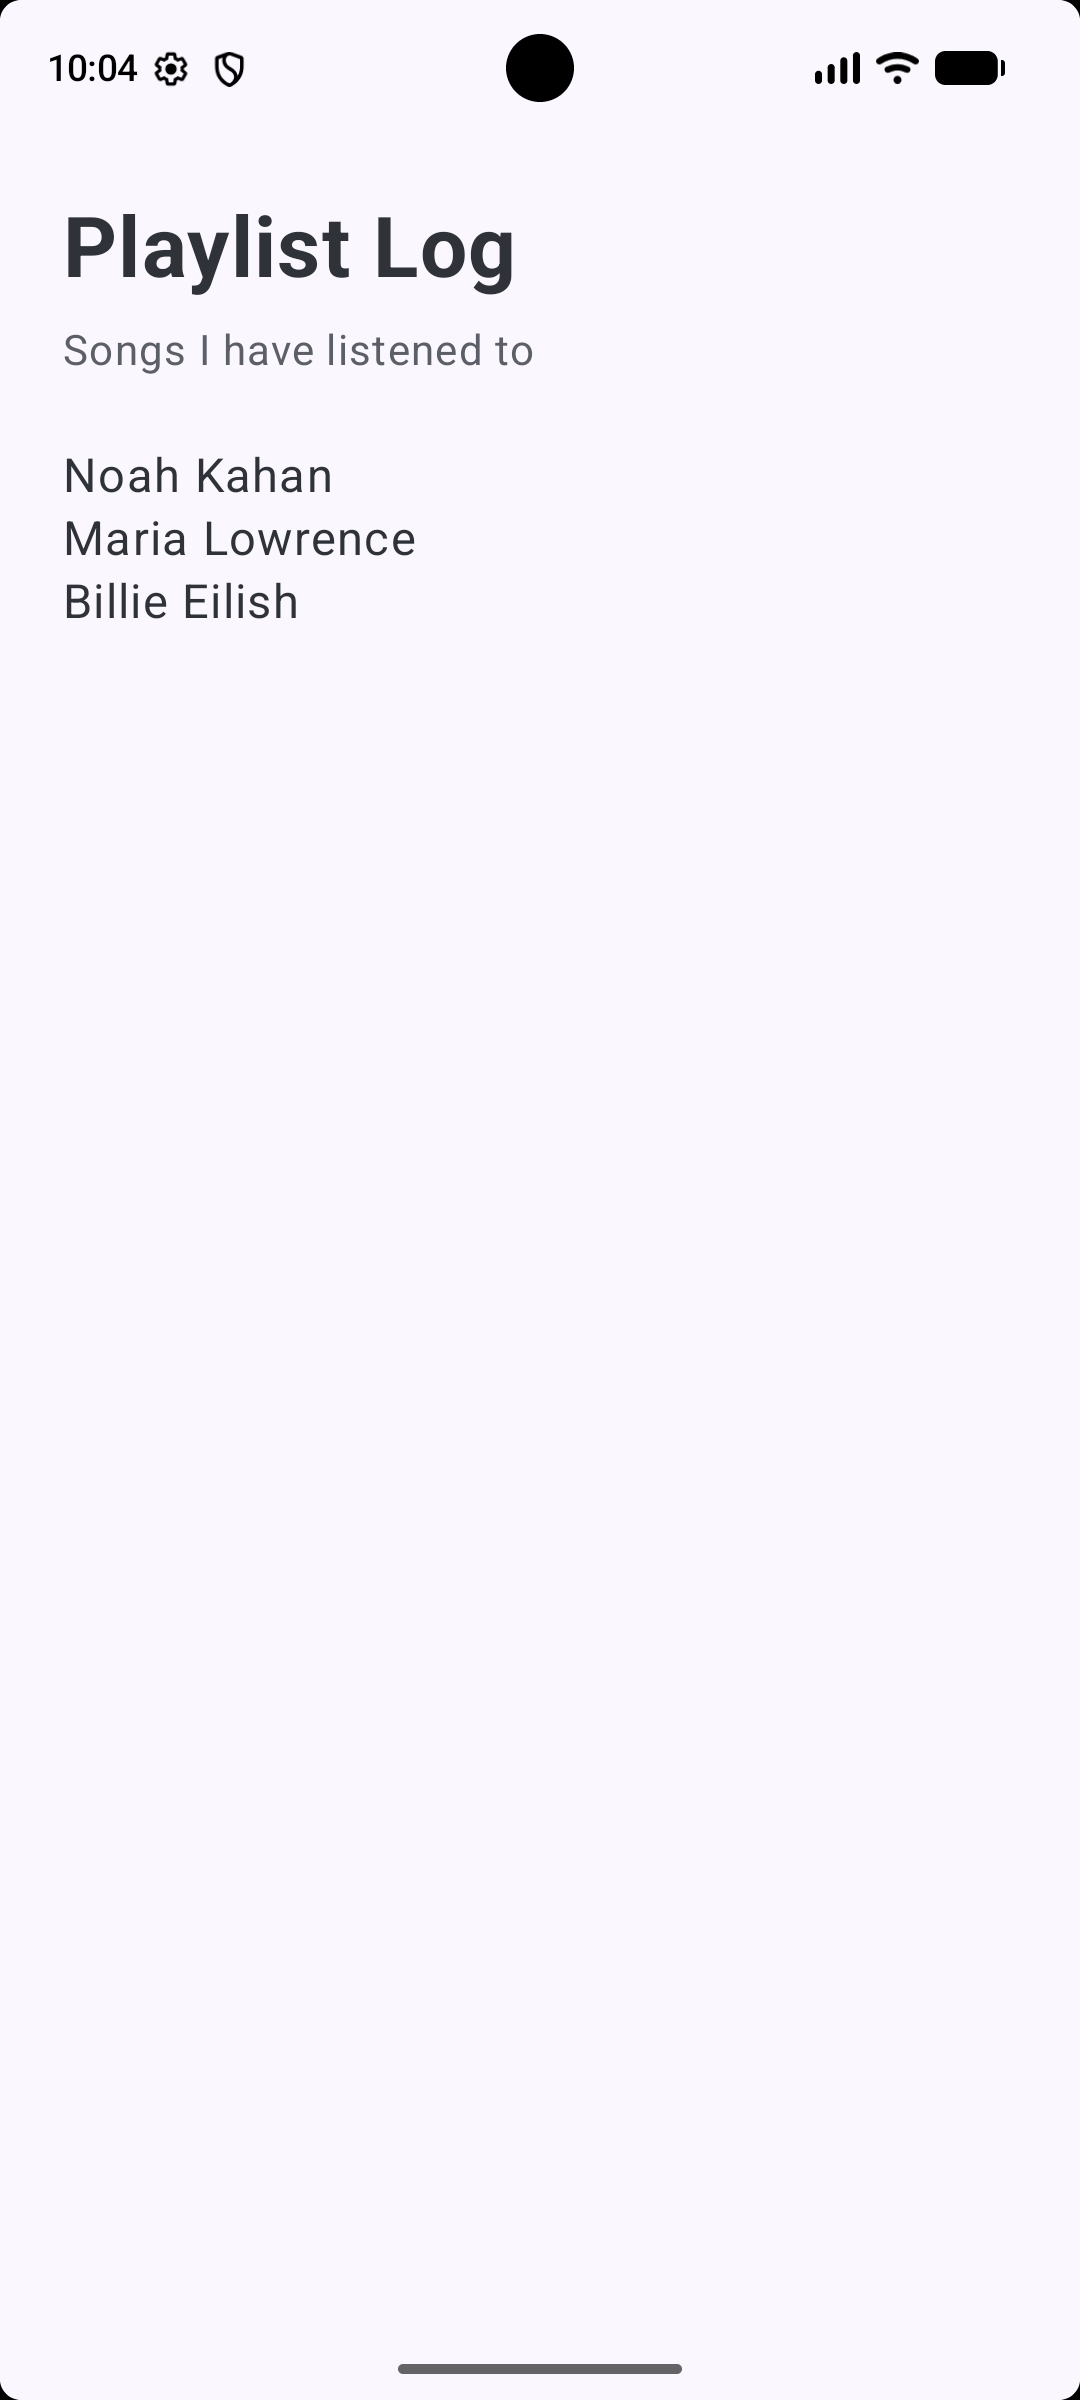
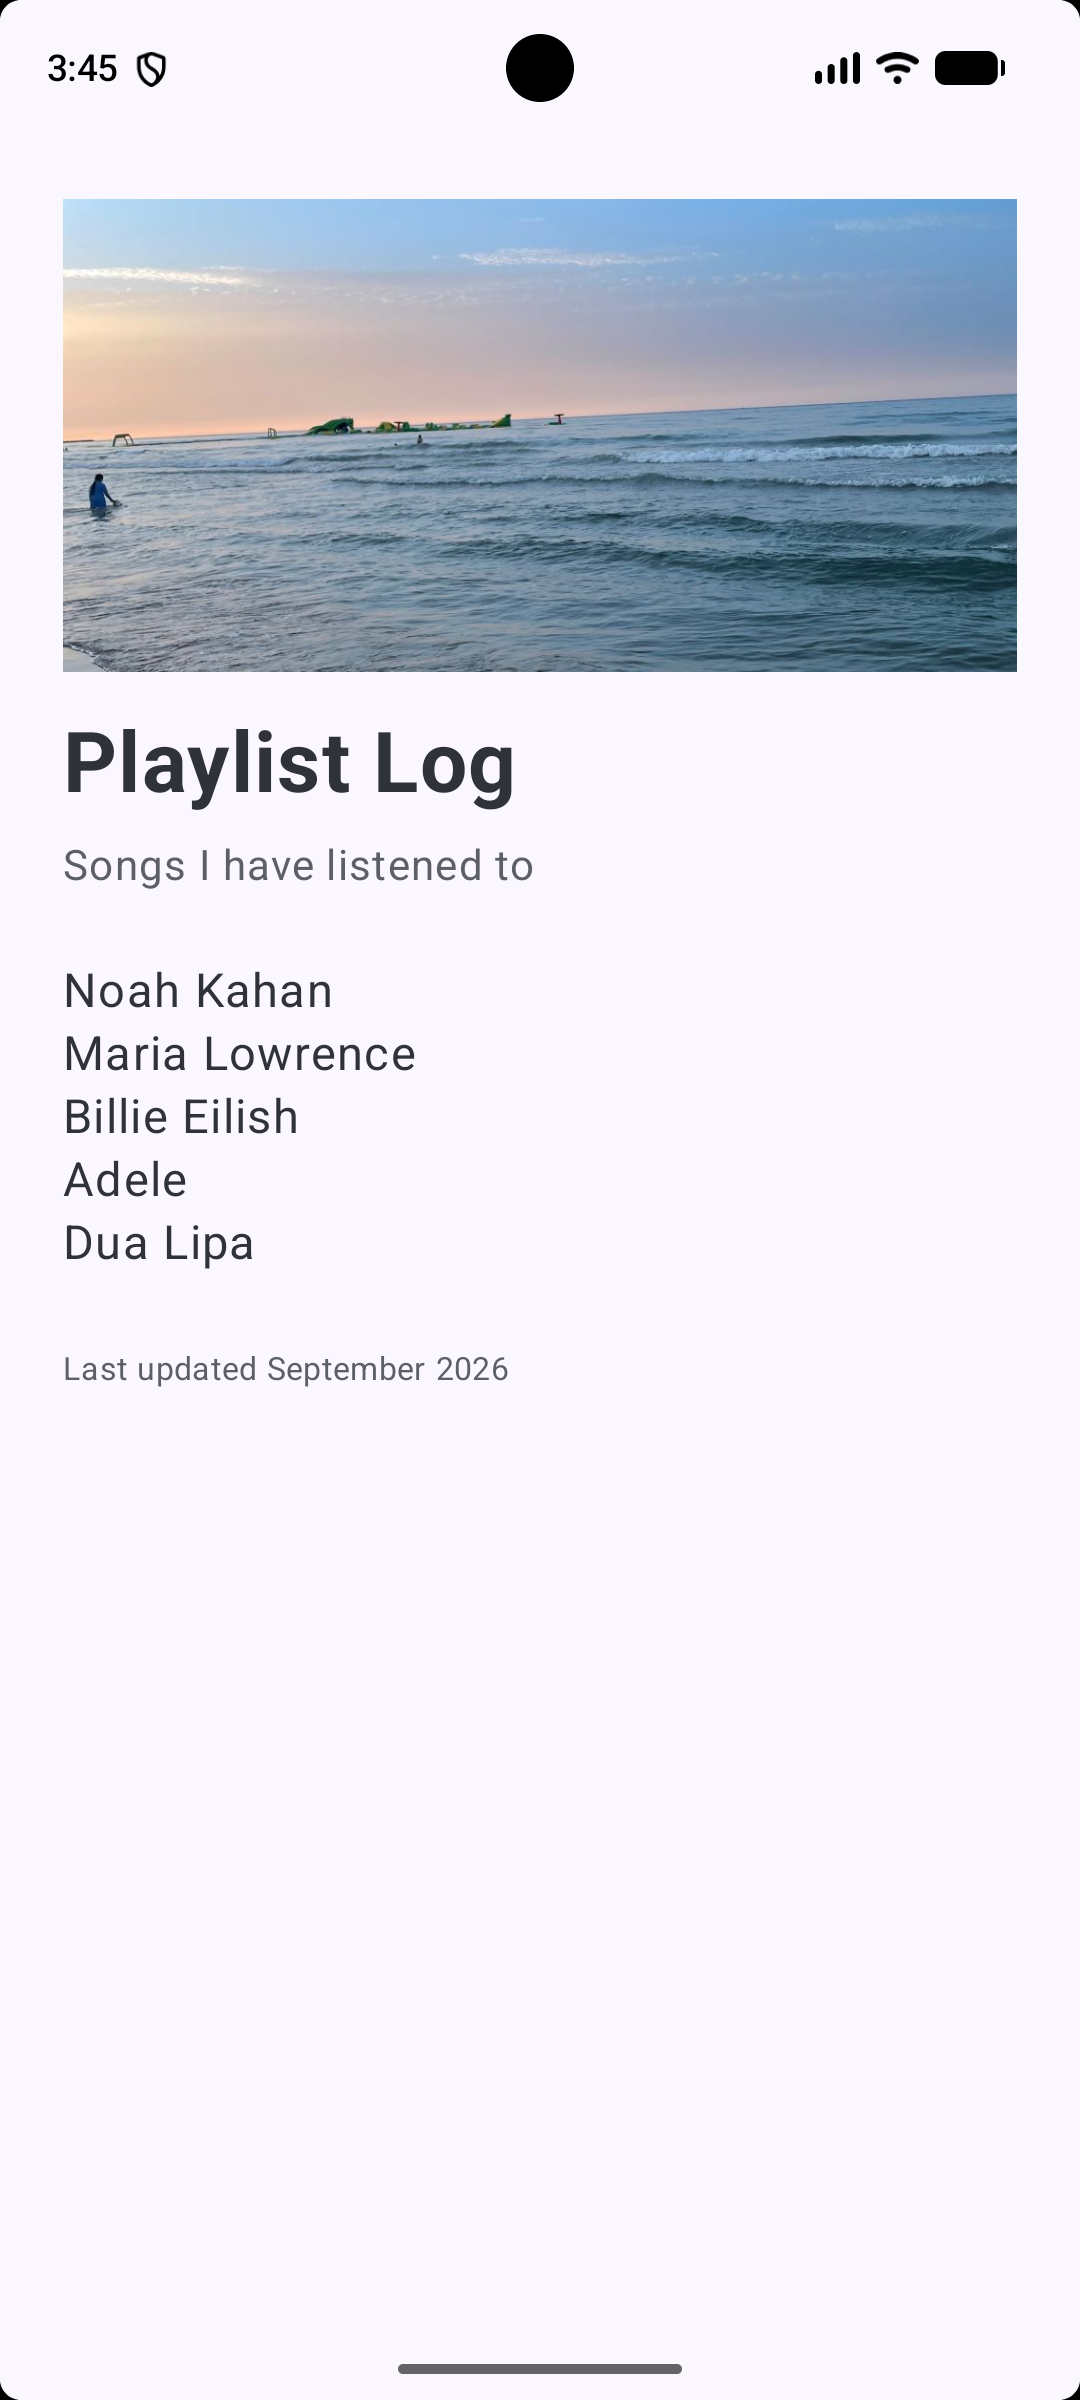
Lab 6 done

diff --git a/app/src/main/java/edu/lemoyne/campusapp/MainActivity.kt b/app/src/main/java/edu/lemoyne/campusapp/MainActivity.kt
@@ -1,20 +1,26 @@
 package edu.lemoyne.campusapp
 
+import android.content.res.Configuration
 import android.os.Bundle
 import androidx.activity.ComponentActivity
 import androidx.activity.compose.setContent
 import androidx.activity.enableEdgeToEdge
+import androidx.compose.foundation.Image
 import androidx.compose.foundation.layout.Column
 import androidx.compose.foundation.layout.Spacer
 import androidx.compose.foundation.layout.fillMaxSize
 import androidx.compose.foundation.layout.fillMaxWidth
 import androidx.compose.foundation.layout.height
 import androidx.compose.foundation.layout.padding
+import androidx.compose.foundation.text.input.rememberTextFieldState
 import androidx.compose.material3.MaterialTheme
 import androidx.compose.material3.Scaffold
+import androidx.compose.material3.Surface
 import androidx.compose.material3.Text
 import androidx.compose.runtime.Composable
 import androidx.compose.ui.Modifier
+import androidx.compose.ui.layout.ContentScale
+import androidx.compose.ui.res.painterResource
 import androidx.compose.ui.text.font.FontWeight
 import androidx.compose.ui.tooling.preview.Preview
 import androidx.compose.ui.unit.dp
@@ -44,6 +50,18 @@ fun HomeScreen(modifier: Modifier = Modifier) {
             .fillMaxWidth()
             .padding(24.dp)
     ) {
+        // --- Lab 6: Task 3: a picture of my own ---
+        Image(
+            painter = painterResource(id = R.drawable.header),
+            contentDescription = "An ocean with waves",
+            contentScale = ContentScale.Crop,
+            modifier = Modifier
+                .fillMaxWidth()
+                .height(180.dp)
+        )
+
+        Spacer(modifier = Modifier.height(16.dp))
+
         // --- Class 6: Step 4: real styling ---
         Text(
             text = "Playlist Log",
@@ -65,14 +83,39 @@ fun HomeScreen(modifier: Modifier = Modifier) {
         Text(text = "Maria Lowrence", fontSize = 18.sp)
         Text(text = "Billie Eilish", fontSize = 18.sp)
 
+        // --- Lab 6: Task 1: more text elements ---
+        Text(text = "Adele", fontSize = 18.sp)
+        Text(text = "Dua Lipa", fontSize = 18.sp)
+
+        // --- Lab 6: Task 2: footer line ---
+        Spacer(modifier = Modifier.height(24.dp))
+
+        Text(
+            text = "Last updated September 2026",
+            fontSize = 12.sp,
+            color = MaterialTheme.colorScheme.onSurfaceVariant
+        )
+
     }
 
 }
 
+// --- Class 6: Step 2: preview, no build required ---
 @Preview
 @Composable
 fun HomeScreenPreview() {
     CampusAppTheme {
         HomeScreen()
+    }
+}
+
+// --- Lab 6: Task 4: dark mode preview ---
+@Preview(showBackground = true, uiMode = Configuration.UI_MODE_NIGHT_YES)
+@Composable
+fun HomeScreenDarkPreview() {
+    CampusAppTheme {
+        Surface {
+            HomeScreen()
+        }
     }
 }

diff --git a/NOTES.md b/NOTES.md
@@ -1,5 +1,6 @@
-1. My first build took approximatelly 5 minutes. The second took 3 minutes roughly. 
-
+1. My first build took approximatelly 5 minutes. The second took 3 minutes roughly.
 2. The app changed to dark mode on its own.
+3. I Don't understand what the different gradle files are and what each does.
 
-3. I Don't understand what the different gradle files are and what each does. 
+Week 5, Friday: I changed the padding modifier on my column from 24.dp to 48.dp. This resilted in an increase of space and margins around all edges of the screen content, pushing the elements inward.
+
